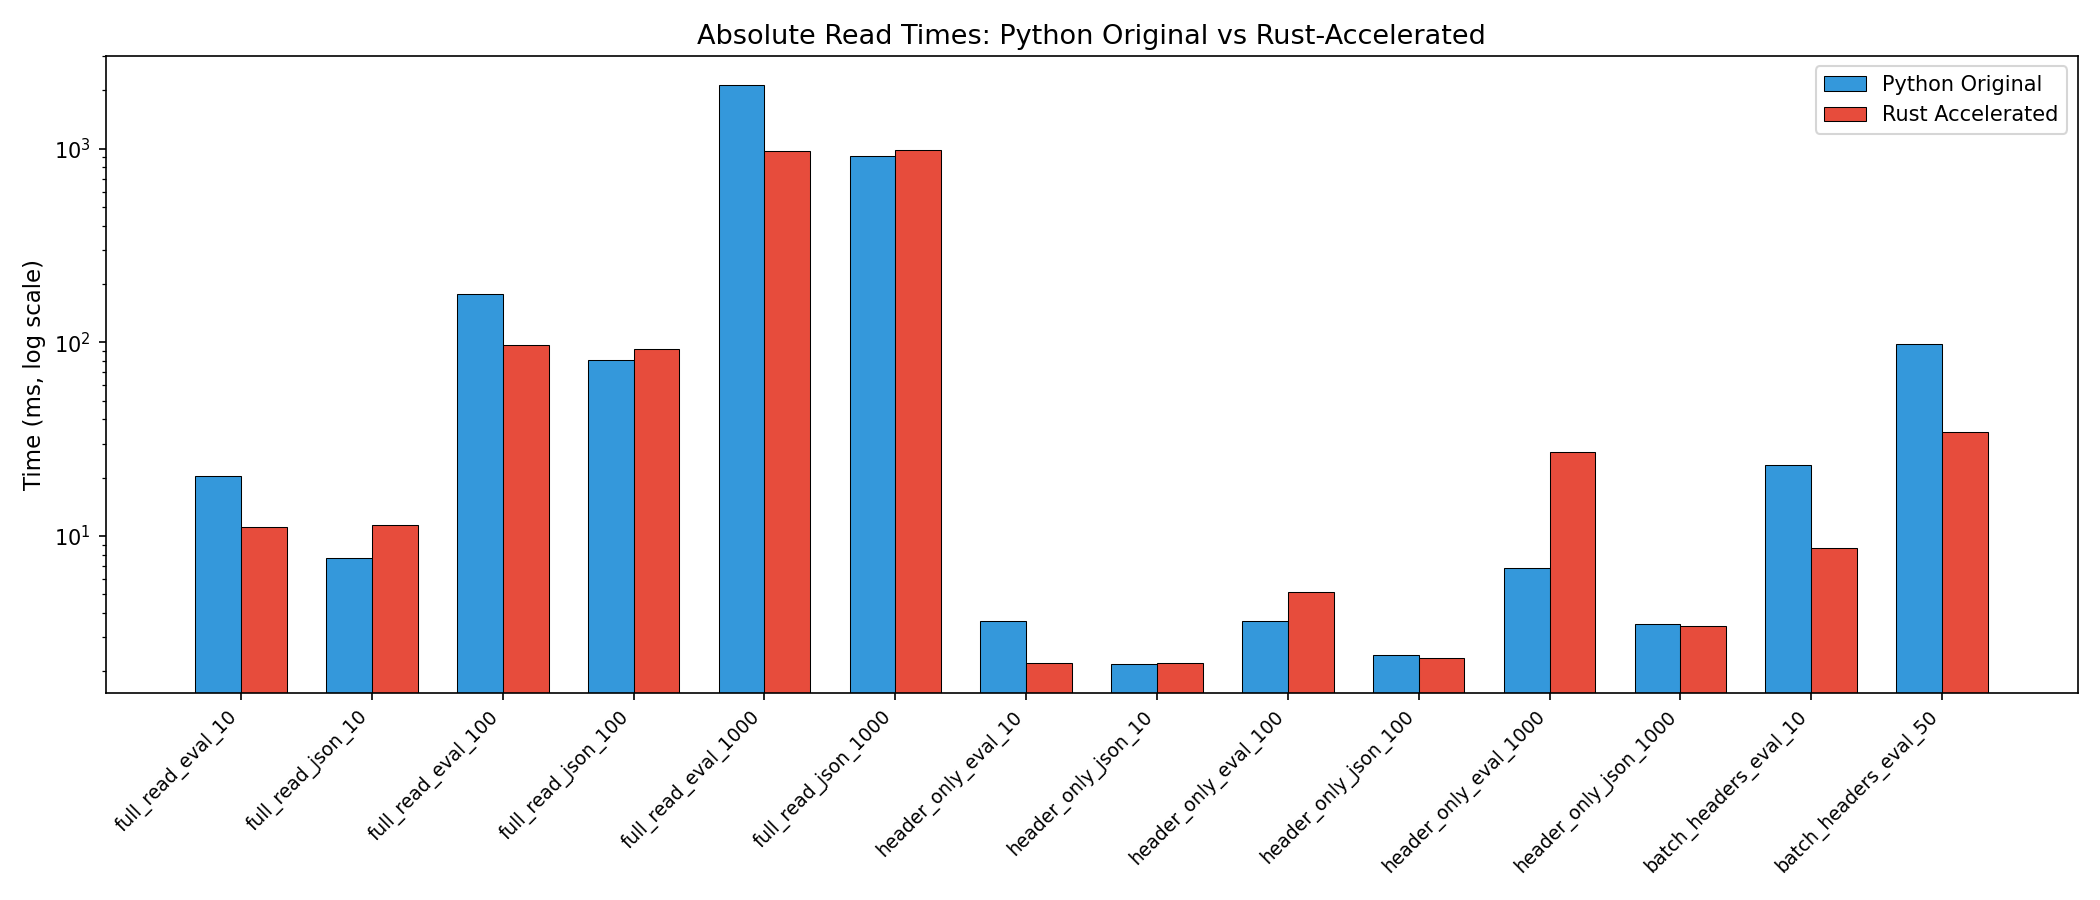
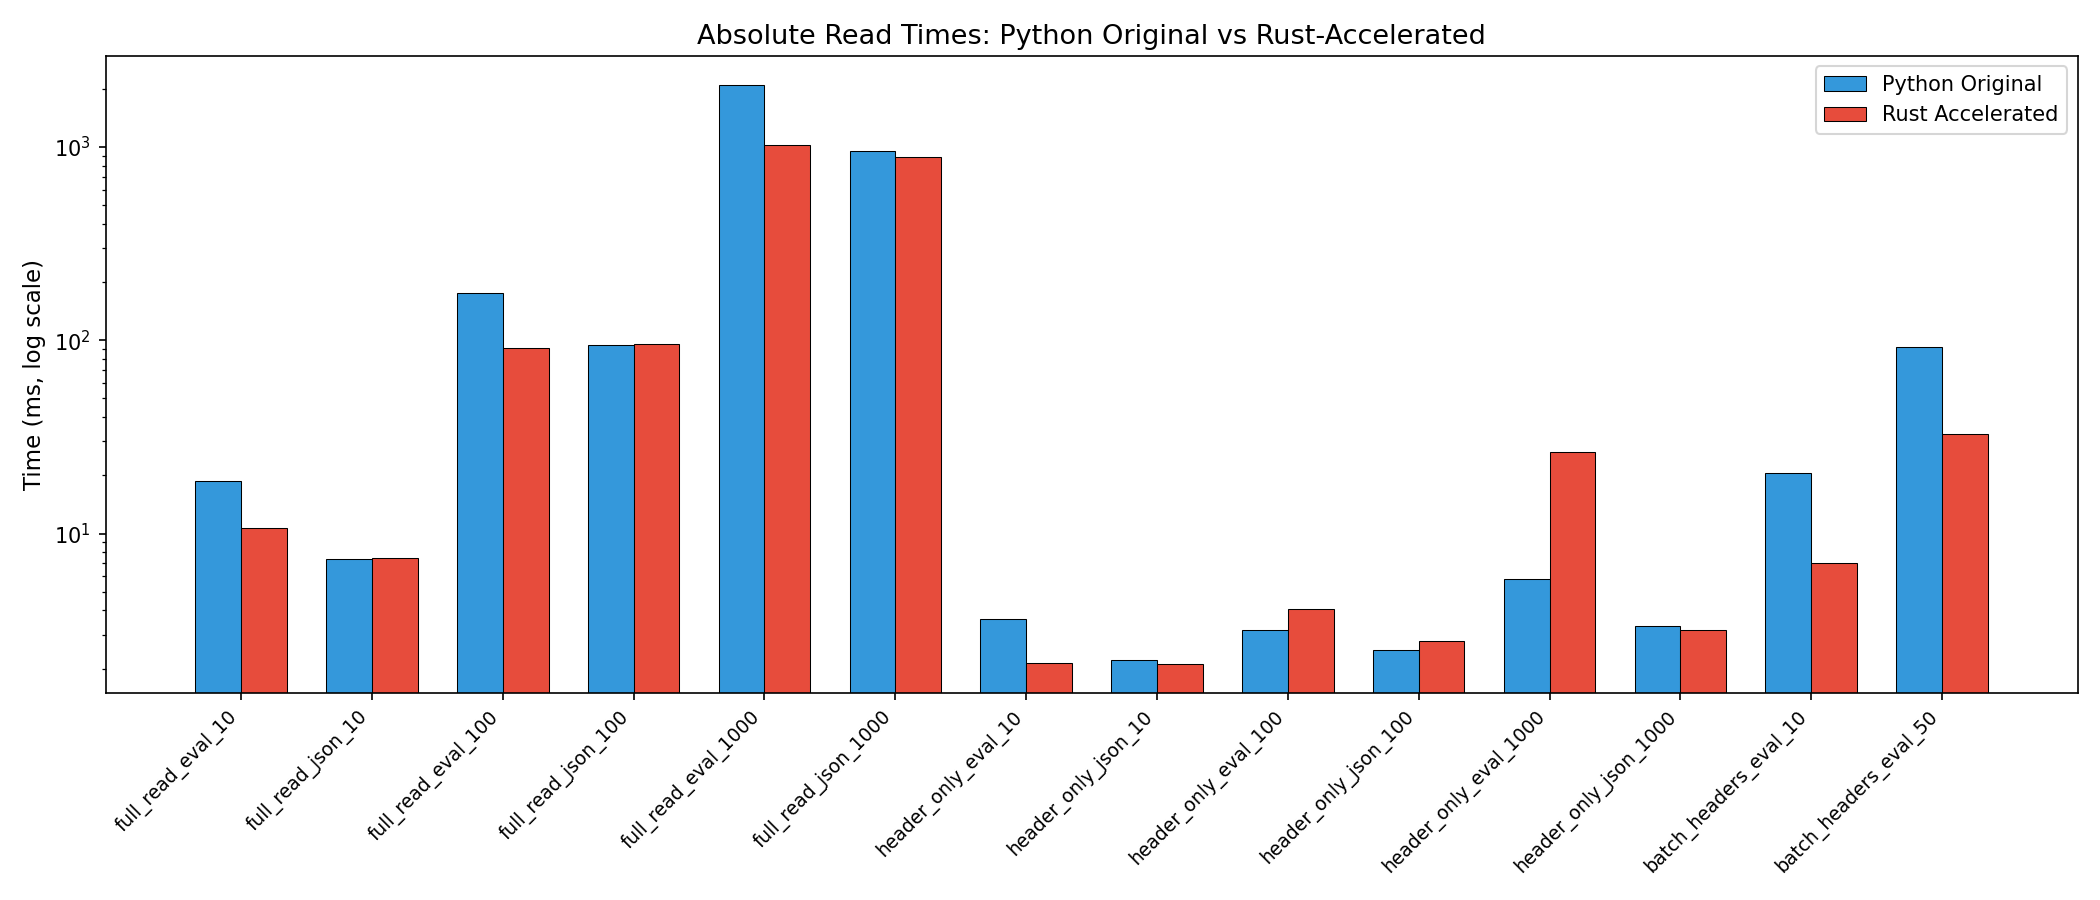
Fall back to original for .json format (pydantic_core.from_json already Rust-backed)
Removes ~10% regression on .json reads by falling back to the original
implementation which uses pydantic_core.from_json() directly. Our
serde_json -> Python dict -> model_validate path can't beat pydantic_core's
optimized JSON-to-Python conversion.

Also cleans up unused code from the .json code path.

diff --git a/inspect_fast_loader/python/inspect_fast_loader/_patch.py b/inspect_fast_loader/python/inspect_fast_loader/_patch.py
@@ -15,7 +15,7 @@ from pathlib import Path
 from typing import Any, IO, Literal
 
 import inspect_ai.log._file as _file_module
-from inspect_ai._util.constants import LOG_SCHEMA_VERSION, get_deserializing_context
+from inspect_ai._util.constants import get_deserializing_context
 from inspect_ai.log._file import EvalLogInfo
 from inspect_ai.log._log import (
     EvalLog,
@@ -24,7 +24,7 @@ from inspect_ai.log._log import (
     sort_samples,
 )
 
-from inspect_fast_loader._native import read_eval_file, read_json_file
+from inspect_fast_loader._native import read_eval_file
 
 logger = logging.getLogger(__name__)
 
@@ -54,11 +54,6 @@ def _detect_format(path: str, format: str) -> str:
     elif path.endswith(".json"):
         return "json"
     raise ValueError(f"Cannot detect format for: {path}")
-
-
-def _validate_version(ver: int) -> None:
-    if ver > LOG_SCHEMA_VERSION:
-        raise ValueError(f"Unable to read version {ver} of log format.")
 
 
 def _build_eval_log_from_eval_file(raw: dict, path: str, header_only: bool) -> EvalLog:
@@ -98,23 +93,6 @@ def _build_eval_log_from_eval_file(raw: dict, path: str, header_only: bool) -> E
     return log
 
 
-def _build_eval_log_from_json_file(raw_data: dict, path: str, header_only: bool) -> EvalLog:
-    """Build an EvalLog from the dict returned by read_json_file (Rust .json reader)."""
-    ctx = get_deserializing_context()
-    log = EvalLog.model_validate(raw_data, context=ctx)
-
-    _validate_version(log.version)
-    log.version = LOG_SCHEMA_VERSION
-
-    if header_only:
-        log.samples = None
-        if log.results is not None:
-            log.results.sample_reductions = None
-            log.reductions = None
-
-    log.location = path
-    return log
-
 
 def _is_bytes_input(log_file: Any) -> bool:
     """Check if log_file is a bytes stream (IO[bytes]) rather than a path."""
@@ -142,13 +120,11 @@ def _fast_read_eval_log_impl(
         raw = read_eval_file(path, header_only)
         log = _build_eval_log_from_eval_file(raw, path, header_only)
     elif fmt == "json":
-        if header_only:
-            # For header-only .json reads, the original uses ijson streaming
-            # which avoids reading/parsing the large samples array entirely.
-            # Our Rust impl would read the whole file, so fall back to original.
-            return _originals["read_eval_log"](log_file, header_only, resolve_attachments, format)
-        raw = read_json_file(path)
-        log = _build_eval_log_from_json_file(raw, path, header_only)
+        # For .json format, fall back to the original Python implementation.
+        # pydantic_core.from_json() is already Rust-backed and optimized
+        # for producing Python objects from JSON. Our serde_json→Python dict
+        # conversion adds overhead rather than saving time.
+        return _originals["read_eval_log"](log_file, header_only, resolve_attachments, format)
     else:
         raise ValueError(f"Unknown format: {fmt}")
 
@@ -189,8 +165,8 @@ async def _fast_read_eval_log_async_impl(
     path = _resolve_path(log_file)
     fmt = _detect_format(path, format)
 
-    # For header-only .json, fall back to original (uses ijson streaming)
-    if fmt == "json" and header_only:
+    # For .json format, fall back to original (pydantic_core.from_json is already Rust-backed)
+    if fmt == "json":
         return await _originals["read_eval_log_async"](log_file, header_only, resolve_attachments, format)
 
     # Run synchronous Rust I/O in a thread
